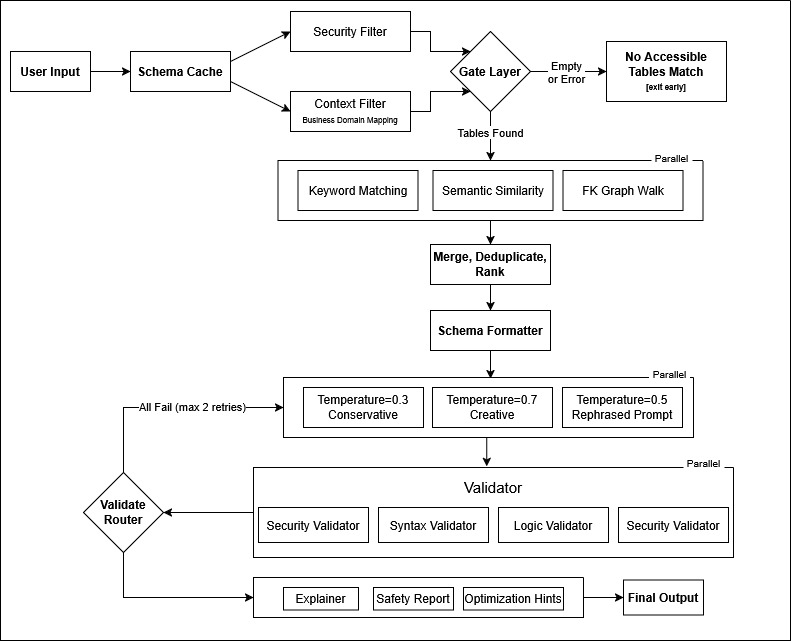
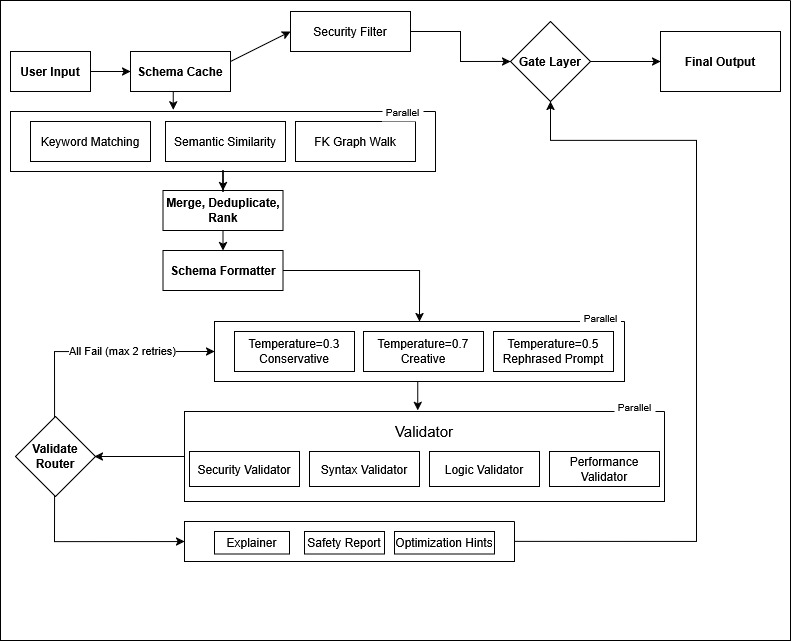
created architecture and state

diff --git a/models/schemas.py b/models/schemas.py
@@ -1,0 +1,102 @@
+"""
+Models/State for data flowing between all pipeline components.
+"""
+
+import operator
+from __future__ import annotations
+from pydantic import BaseModel, Field
+from typing import Optional, Annotated
+from typing_extensions import TypedDict
+
+# --- Database/Schema --- #
+
+class ColumnMetaData(BaseModel):
+    column_name: str
+    data_type: str
+    nullable: bool = True
+    is_primary_key: bool = False
+    is_foreign_key: bool = False
+    reference_table: Optional[str] = None
+    reference_column: Optional[str] = None
+
+class TableMetaData(BaseModel):
+    table_name: str
+    schema_name: str
+    rows_count: Optional[int] = None
+    columns: list[ColumnMetaData] = Field(default_factory=list)
+    comments: Optional[str] = None
+
+# --- discovery --- #
+
+class ScoredTables(BaseModel):
+    table: TableMetaData
+    score: float
+    found_by: list[str] = Field(default_factory=list)
+
+class DiscoveryResult(BaseModel):
+    top_tables: list[TableMetaData]
+    scored_tables: list[ScoredTables]
+
+# --- Schema Formatter --- #
+
+class FormattedSchema(BaseModel):
+    content: str
+    table_names: list[str]
+    token_estimate: int
+
+# --- Query Generation --- #
+
+class SQLCandidate(BaseModel):
+    sql: str
+    temperature: float
+    prompt_variant: str # # "conservative" | "creative" | "rephrased"
+
+class GenerationResult(BaseModel):
+    candidates: list[SQLCandidate]
+
+# --- Validation --- #
+
+class ValidatorCheckResult(BaseModel):
+    check_name: str
+    passed: bool
+    score: float = 0.0
+    details: Optional[str] = None
+
+class CandidateValidationResult(BaseModel):
+    candidate: SQLCandidate
+    checks: list[ValidatorCheckResult]
+    total_score: float
+    disqualified: bool = False
+
+class ValidationResult(BaseModel):
+    best_candidate: Optional[SQLCandidate] = None
+    all_results: list[CandidateValidationResult]
+    passed: bool
+    retry_context: Optional[str] = None
+
+# --- Final Output --- #
+class FinalOutput(BaseModel):
+    sql: str
+    explanation: str
+    safety_report: str
+    optimization_hints: str
+    candidate_scores: list[CandidateValidationResult]
+
+# --- Graph State --- #
+
+class GraphState(TypedDict, total=False):
+    user_query: str
+    tables: list[TableMetaData]
+
+    # written by security_filter and discovery node (parallel branches)
+    security_passed: Annotated[set[str], operator.or_]
+    discovery_result: DiscoveryResult
+
+    # gate onwards
+    gated_tables: list[TableMetaData]
+    formatted_schema: FormattedSchema
+    generation: GenerationResult
+    validation: ValidationResult
+    retry_context: Optional[str]
+    attempt: int
+    output: FinalOutput

diff --git a/config/settings.py b/config/settings.py
@@ -1,0 +1,59 @@
+import os
+from dotenv import load_dotenv
+from dataclasses import dataclass
+from langchain_openai import ChatOpenAI, OpenAIEmbeddings
+
+load_dotenv()
+
+@dataclass(frozen=True)
+class LLMProvider:
+    """Connection details for a single LLM Provider."""
+    api_key: str
+    base_url: str
+    default_model: str
+
+    def chat_model(self, *, temperature:float = 0.3, max_tokens: int = 2048) -> ChatOpenAI:
+        return ChatOpenAI(
+            model = self.default_model,
+            api_key = self.api_key,
+            base_url = self.base_url,
+            temperature=temperature,
+            max_tokens=max_tokens
+        )
+
+    def embeddings_model(self) -> OpenAIEmbeddings:
+        return OpenAIEmbeddings(
+            model=self.default_model,
+            api_key=self.api_key,
+            base_url=self.base_url 
+        )
+
+# providers
+OPENAI_PROVIDER = LLMProvider(
+    api_key=os.getenv('OPENAI_API_KEY', '')
+    base_url=os.getenv('OPENAI_BASE_URL', 'https://openrouter.ai/api/v1')
+    default_model=os.getenv('OPENAI_MODEL', 'openai/gpt-4o-mini')
+)
+
+GEMINI_PROVIDER = LLMProvider(
+    api_key=os.getenv('GEMINI_API_KEY', '')
+    base_url=os.getenv("GEMINI_BASE_URL", "https://openrouter.ai/api/v1"),
+    default_model=os.getenv("GEMINI_MODEL", "google/gemini-2.5-flash"),
+)
+
+PRIMARY_PROVIDER: LLMProvider = OPENAI_PROVIDER
+VALIDATION_PROVIDER: LLMProvider = OPENAI_PROVIDER # GEMINI_PROVIDER
+EMBEDDING_PROVIDER: LLMProvider = OPENAI_PROVIDER
+
+# Database
+DB_TYPE: str = os.getenv('DB_TYPE', 'sqlite')
+DB_PATH: str = os.getenv('DB_PATH', '')
+
+# Pipleline
+N_CANDIDATES: int = int(os.getenv('N_CANDIDATES', '3'))
+MAX_RETRIES: int = int(os.getenv('MAX_RETRIES', '2'))
+DISCOVERY_TOP_K: int = int(os.getenv('DISCOVERY_TOP_K', '10'))
+KEYWORD_PRE_FILTER_TOP_N: int = int(os.getenv('KEYWORD_PRE_FILTER_TOP_N', '50'))
+
+# Temperatures for Candidates
+CANDIDATE_TEMPERATURES: list[float] = [0.3, 0.7, 0.5]

diff --git a/agents/base_agent.py b/agents/base_agent.py
@@ -1,0 +1,36 @@
+import logging
+from typing import Any
+from __future__ import annotations
+from abc import ABC, abstractmethod
+
+from openai import AsyncOpenAI
+from config.settings import OPENAI_API_KEY, OPENAI_MODEL
+
+logger = logging.getLogger(__name__)
+
+class BaseAgent(ABC):
+    def __init__(self, model: str = OPENAI_MODEL) -> None:
+        self.client = AsyncOpenAI(api_key=OPENAI_API_KEY)
+        self.model = model
+
+        @abstractmethod
+        def build_prompt(self, *args, **kwargs) -> list[dict[str, str]]:
+            """Returns OpenAI message list (role/content pairs)"""
+            ...
+        
+        @abstractmethod
+        def parse_response(self, raw: str) -> Any:
+            """Parse raw LLM Text into a typed result"""
+            ...
+
+        async def call_llm(
+                self,
+                messages: list[dict[str, str]],
+                temperature: float = 0.3,
+                max_tokens: int = 2048
+        ) -> str:
+            logger.debug('[INFO][%s -> LLM (model=%s, temp=%.1f, msgs=%d)]', self.__class__, self.model, temperature, len(messages))
+
+            response = await self.client.chat.completions.create(
+                
+            )
